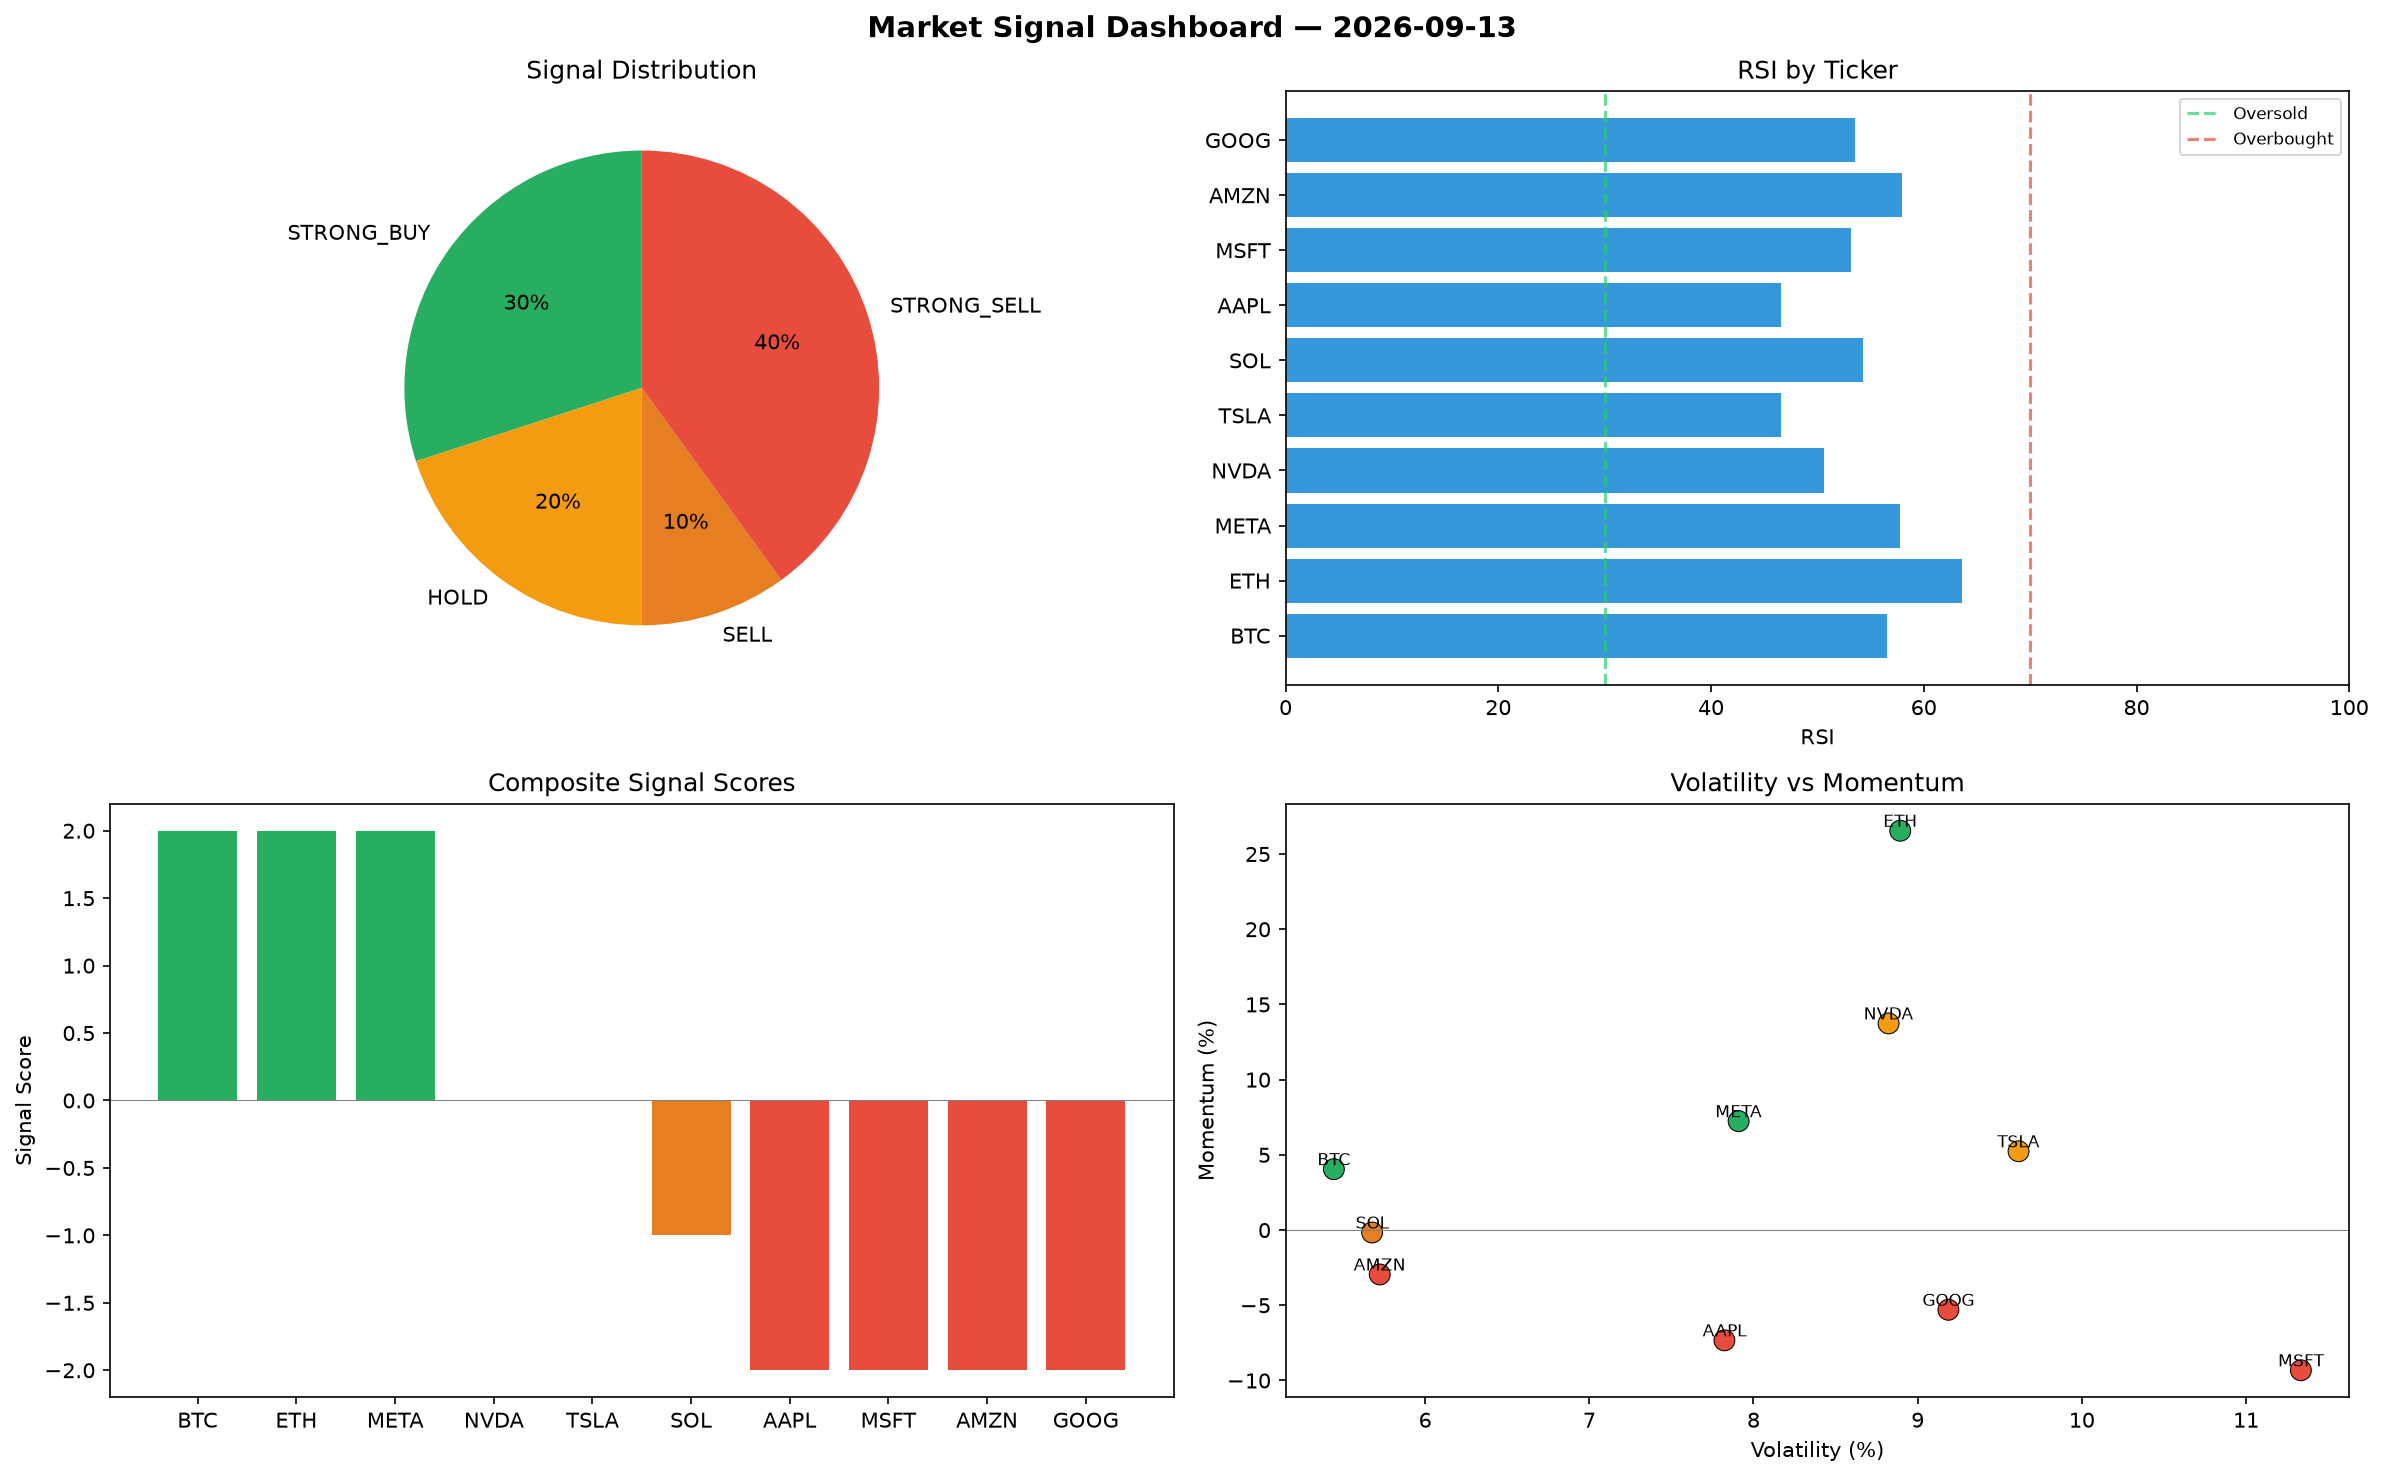
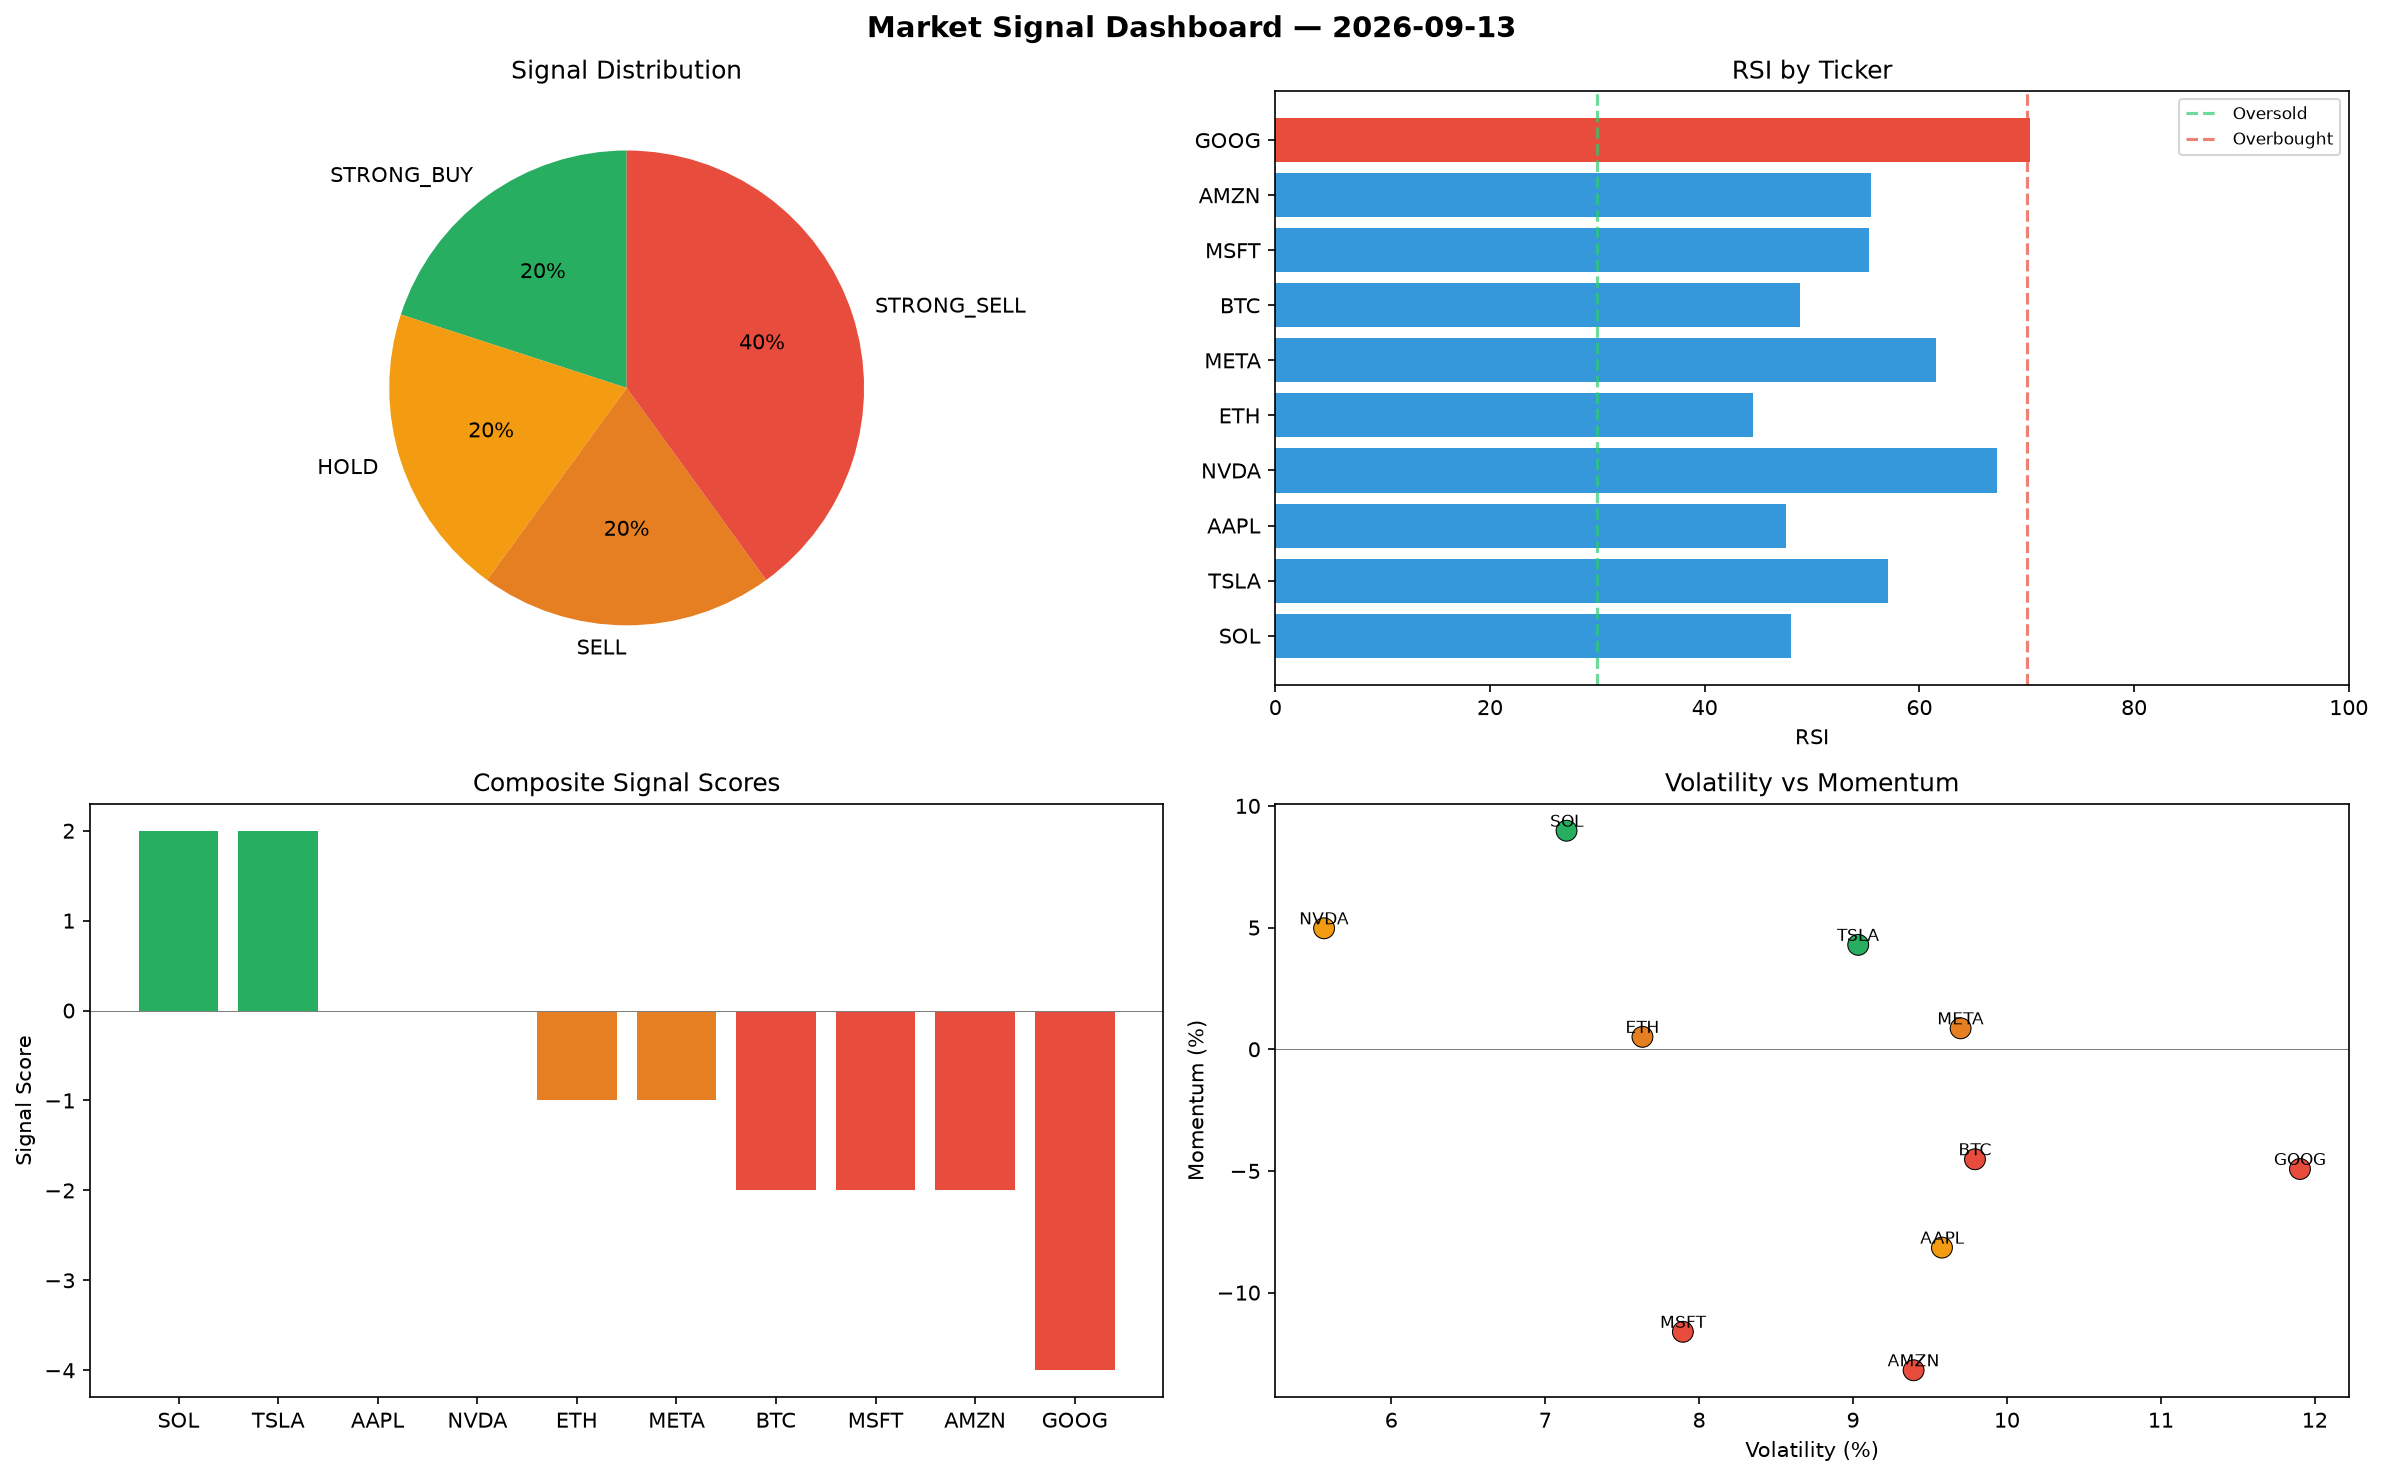
automated-bots: market signals 2026-09-13T17:32

diff --git a/logs/2026-09-13.md b/logs/2026-09-13.md
@@ -1,6 +1,6 @@
 # Market Signal Report — 2026-09-13
 
-**Run ID:** `355b42276e` | **Buy:** 3 | **Sell:** 5 | **Hold:** 2
+**Run ID:** `0884a01333` | **Buy:** 2 | **Sell:** 6 | **Hold:** 2
 
 ![Dashboard](2026-09-13_dashboard.png)
 
@@ -8,28 +8,28 @@
 
 | Ticker | Price | Signal | Score | RSI | Momentum | Confidence |
 |--------|-------|--------|-------|-----|----------|------------|
-| BTC | $3441.15 | **STRONG_BUY** | 2 | 56.55 | 0.0405 | 0.5 |
-| ETH | $2341.76 | **STRONG_BUY** | 2 | 63.57 | 0.2655 | 0.5 |
-| META | $3791.74 | **STRONG_BUY** | 2 | 57.72 | 0.0724 | 0.5 |
-| NVDA | $5219.72 | **HOLD** | 0 | 50.64 | 0.1374 | 0.0 |
-| TSLA | $2645.89 | **HOLD** | 0 | 46.61 | 0.0524 | 0.0 |
-| SOL | $4747.98 | **SELL** | -1 | 54.27 | -0.0016 | 0.25 |
-| AAPL | $3123.45 | **STRONG_SELL** | -2 | 46.61 | -0.0733 | 0.5 |
-| MSFT | $1654.53 | **STRONG_SELL** | -2 | 53.2 | -0.0932 | 0.5 |
-| AMZN | $3747.56 | **STRONG_SELL** | -2 | 57.91 | -0.0295 | 0.5 |
-| GOOG | $1674.21 | **STRONG_SELL** | -2 | 53.55 | -0.053 | 0.5 |
+| SOL | $2697.19 | **STRONG_BUY** | 2 | 48.04 | 0.0898 | 0.5 |
+| TSLA | $4375.58 | **STRONG_BUY** | 2 | 57.07 | 0.0429 | 0.5 |
+| AAPL | $1728.65 | **HOLD** | 0 | 47.54 | -0.0815 | 0.0 |
+| NVDA | $2792.94 | **HOLD** | 0 | 67.21 | 0.0497 | 0.0 |
+| ETH | $769.49 | **SELL** | -1 | 44.5 | 0.0051 | 0.25 |
+| META | $4554.61 | **SELL** | -1 | 61.58 | 0.0086 | 0.25 |
+| BTC | $3277.77 | **STRONG_SELL** | -2 | 48.89 | -0.0452 | 0.5 |
+| MSFT | $3529.43 | **STRONG_SELL** | -2 | 55.33 | -0.1161 | 0.5 |
+| AMZN | $3111.33 | **STRONG_SELL** | -2 | 55.46 | -0.1319 | 0.5 |
+| GOOG | $693.74 | **STRONG_SELL** | -4 | 70.35 | -0.0492 | 1.0 |
 
 ## Delta vs Yesterday
 
 | Ticker | Today | Yesterday | Price Change | Signal Changed |
 |--------|-------|-----------|-------------|----------------|
-| BTC | STRONG_BUY | HOLD | 📉 -28.39% | ⚠ YES |
-| ETH | STRONG_BUY | STRONG_SELL | 📈 361.12% | ⚠ YES |
-| META | STRONG_BUY | SELL | 📈 9.44% | ⚠ YES |
-| NVDA | HOLD | HOLD | 📈 122.2% | — |
-| TSLA | HOLD | HOLD | 📈 95.95% | — |
-| SOL | SELL | STRONG_SELL | 📈 98.79% | ⚠ YES |
-| AAPL | STRONG_SELL | HOLD | 📈 477.75% | ⚠ YES |
-| MSFT | STRONG_SELL | STRONG_SELL | 📉 -45.05% | — |
-| AMZN | STRONG_SELL | HOLD | 📉 -28.51% | ⚠ YES |
-| GOOG | STRONG_SELL | STRONG_BUY | 📉 -54.93% | ⚠ YES |
+| SOL | STRONG_BUY | STRONG_SELL | 📈 12.93% | ⚠ YES |
+| TSLA | STRONG_BUY | HOLD | 📈 224.05% | ⚠ YES |
+| AAPL | HOLD | HOLD | 📈 219.75% | — |
+| NVDA | HOLD | HOLD | 📈 18.89% | — |
+| ETH | SELL | STRONG_SELL | 📈 51.52% | ⚠ YES |
+| META | SELL | SELL | 📈 31.45% | — |
+| BTC | STRONG_SELL | HOLD | 📉 -31.79% | ⚠ YES |
+| MSFT | STRONG_SELL | STRONG_SELL | 📈 17.21% | — |
+| AMZN | STRONG_SELL | HOLD | 📉 -40.65% | ⚠ YES |
+| GOOG | STRONG_SELL | STRONG_BUY | 📉 -81.33% | ⚠ YES |
